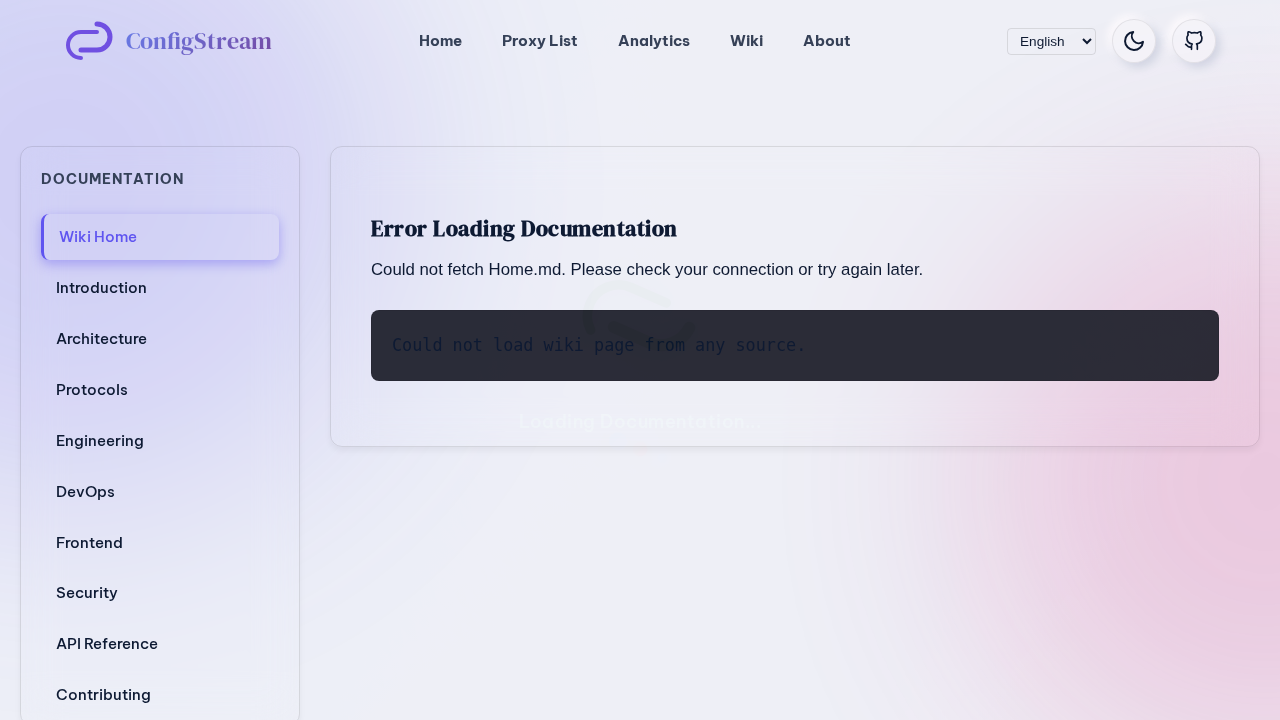
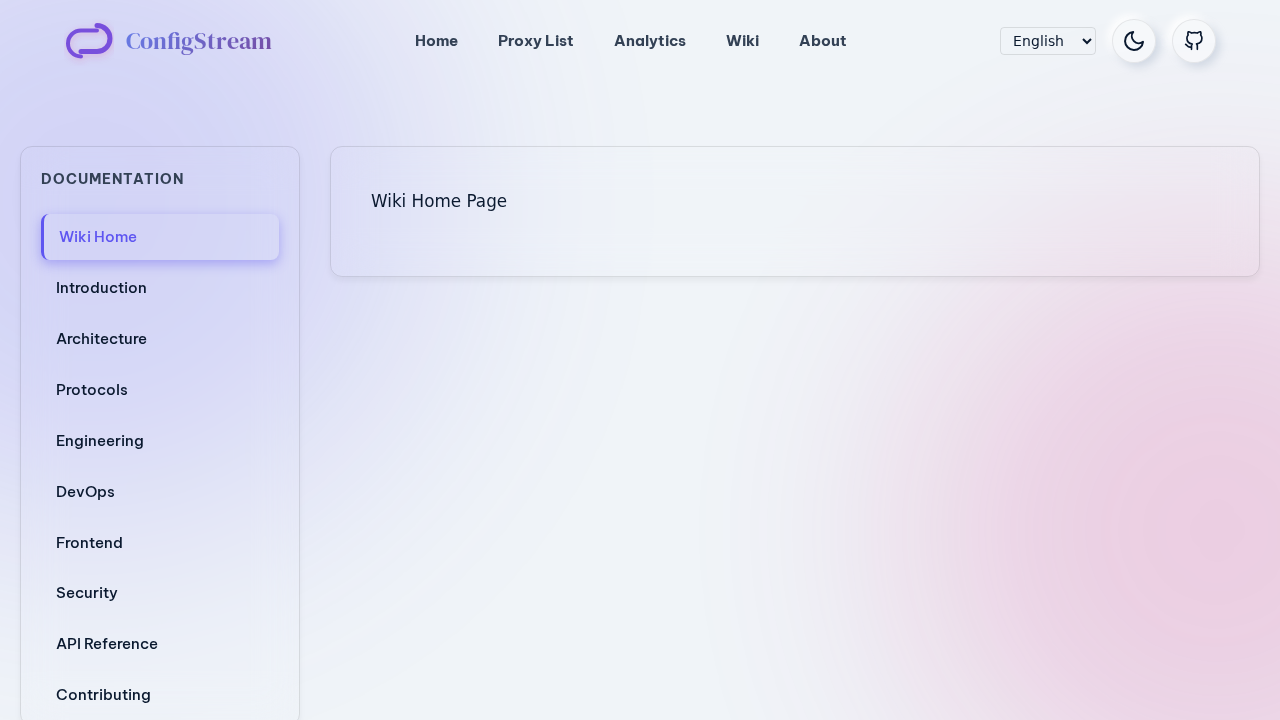
fix(frontend): repair broken wiki/about pages and improve typography/i18n
- Implemented robust multi-strategy fetching in `wiki.js` to handle relative paths and various deployment environments (local vs GitHub Pages).
- Added CDN fallback for `marked.js` and `DOMPurify` in `wiki.html`.
- Enhanced `style.css` with language-specific font families (Vazirmatn, Noto Sans) for better typography in Persian, Arabic, and Chinese.
- Updated `i18n.js` with missing Wiki navigation keys.
- Added comprehensive logging to `src/configstream/parsers/base.py` to trace dropped config lines and reasons.
- Added `tests/unit/test_parsers_logging.py` to verify logging improvements.

diff --git a/frontend/assets/js/wiki.js b/frontend/assets/js/wiki.js
@@ -5,21 +5,21 @@ const WIKI_BASE_URL = 'https://raw.githubusercontent.com/AmirrezaFarnamTaheri/Co
 const LOCAL_WIKI_BASE = '../docs/wiki/';
 
 const WIKI_PAGES = [
-    { id: 'Home', title: 'Wiki Home', file: 'Home.md' },
-    { id: 'intro', title: 'Introduction', file: '01-introduction.md' },
-    { id: 'arch', title: 'Architecture', file: '02-architecture.md' },
-    { id: 'proto', title: 'Protocols', file: '03-protocols.md' },
-    { id: 'eng', title: 'Engineering', file: '04-engineering.md' },
-    { id: 'devops', title: 'DevOps', file: '05-devops.md' },
-    { id: 'frontend', title: 'Frontend', file: '06-frontend.md' },
-    { id: 'security', title: 'Security', file: '07-security.md' },
-    { id: 'api', title: 'API Reference', file: '08-api-reference.md' },
-    { id: 'contributing', title: 'Contributing', file: '09-contributing.md' },
-    { id: 'troubleshooting', title: 'Troubleshooting', file: '10-troubleshooting.md' },
-    { id: 'home_page', title: 'Page: Home', file: 'Home_Page.md' },
-    { id: 'analytics_page', title: 'Page: Analytics', file: 'Analytics_Page.md' },
-    { id: 'proxies_page', title: 'Page: Proxies', file: 'Proxies_Page.md' },
-    { id: 'about_page', title: 'Page: About', file: 'About_Page.md' }
+    { id: 'Home', title: 'wiki.nav.home', defaultTitle: 'Wiki Home', file: 'Home.md' },
+    { id: 'intro', title: 'wiki.nav.intro', defaultTitle: 'Introduction', file: '01-introduction.md' },
+    { id: 'arch', title: 'wiki.nav.arch', defaultTitle: 'Architecture', file: '02-architecture.md' },
+    { id: 'proto', title: 'wiki.nav.proto', defaultTitle: 'Protocols', file: '03-protocols.md' },
+    { id: 'eng', title: 'wiki.nav.eng', defaultTitle: 'Engineering', file: '04-engineering.md' },
+    { id: 'devops', title: 'wiki.nav.devops', defaultTitle: 'DevOps', file: '05-devops.md' },
+    { id: 'frontend', title: 'wiki.nav.frontend', defaultTitle: 'Frontend', file: '06-frontend.md' },
+    { id: 'security', title: 'wiki.nav.security', defaultTitle: 'Security', file: '07-security.md' },
+    { id: 'api', title: 'wiki.nav.api', defaultTitle: 'API Reference', file: '08-api-reference.md' },
+    { id: 'contributing', title: 'wiki.nav.contributing', defaultTitle: 'Contributing', file: '09-contributing.md' },
+    { id: 'troubleshooting', title: 'wiki.nav.troubleshooting', defaultTitle: 'Troubleshooting', file: '10-troubleshooting.md' },
+    { id: 'home_page', title: 'wiki.nav.page_home', defaultTitle: 'Page: Home', file: 'Home_Page.md' },
+    { id: 'analytics_page', title: 'wiki.nav.page_analytics', defaultTitle: 'Page: Analytics', file: 'Analytics_Page.md' },
+    { id: 'proxies_page', title: 'wiki.nav.page_proxies', defaultTitle: 'Page: Proxies', file: 'Proxies_Page.md' },
+    { id: 'about_page', title: 'wiki.nav.page_about', defaultTitle: 'Page: About', file: 'About_Page.md' }
 ];
 
 document.addEventListener('DOMContentLoaded', () => {
@@ -28,6 +28,16 @@ document.addEventListener('DOMContentLoaded', () => {
     // Handle hash changes to load pages
     window.addEventListener('hashchange', loadFromHash);
 
+    // Listen for language changes to update sidebar titles
+    window.addEventListener('languageChanged', () => {
+        initSidebar();
+        // Also re-highlight active
+        const hash = window.location.hash.substring(1) || 'Home';
+        const page = WIKI_PAGES.find(p => p.id === hash) || WIKI_PAGES[0];
+        const activeNav = document.getElementById(`nav-${page.id}`);
+        if (activeNav) activeNav.classList.add('active');
+    });
+
     // Initial load
     loadFromHash();
 });
@@ -35,14 +45,31 @@ document.addEventListener('DOMContentLoaded', () => {
 function initSidebar() {
     const sidebar = document.getElementById('wikiSidebar');
     if (!sidebar) return;
+
+    // Preserve active state if rebuilding
+    const currentHash = window.location.hash.substring(1) || 'Home';
+
     sidebar.innerHTML = '';
 
     WIKI_PAGES.forEach(page => {
         const link = document.createElement('a');
         link.className = 'wiki-nav-item';
-        link.innerText = page.title;
+
+        // Use i18n if available, otherwise default
+        let displayTitle = page.defaultTitle;
+        if (window.i18n && window.i18n.t) {
+            const translated = window.i18n.t(page.title);
+            if (translated !== page.title) {
+                displayTitle = translated;
+            }
+        }
+
+        link.innerText = displayTitle;
         link.href = `#${page.id}`;
         link.id = `nav-${page.id}`;
+        if (page.id === currentHash) {
+            link.classList.add('active');
+        }
         sidebar.appendChild(link);
     });
 }
@@ -56,6 +83,11 @@ async function loadFromHash() {
     const activeNav = document.getElementById(`nav-${page.id}`);
     if (activeNav) activeNav.classList.add('active');
 
+    // Scroll sidebar to active item on mobile/small screens
+    if (activeNav && window.innerWidth < 900) {
+        activeNav.scrollIntoView({ behavior: 'smooth', block: 'center', inline: 'center' });
+    }
+
     await renderPage(page.file);
 }
 
@@ -63,52 +95,100 @@ async function renderPage(filename) {
     const container = document.getElementById('wikiRenderer');
     if (!container) return;
 
-    container.innerHTML = '<div class="loading-spinner">Loading...</div>';
+    container.innerHTML = `
+        <div class="loading-spinner">
+            <div class="spinner"></div>
+            <p style="margin-left: 10px;">Loading content...</p>
+        </div>`;
 
     try {
         // Strategy:
-        // 1. Try fetching from 'wiki/' relative path (Production, served from output/wiki)
-        // 2. Try fetching from './' relative path (If served from output/wiki/index.html)
-        // 3. Try fetching from raw GitHub (Fallback)
-        // 4. Try fetching from local docs folder (Local Dev)
-
-        // Note: fetch will succeed even on 404, so we must check response.ok
+        // 1. Try 'wiki/' relative path (For sub-path deployment e.g., /wiki/)
+        // 2. Try './' relative path (For flat deployment)
+        // 3. Try Raw GitHub (Fallback for missing files or local dev)
+        // 4. Try '../docs/wiki/' (Local dev fallback)
 
         let content = '';
         let success = false;
+        let lastError = null;
 
         const strategies = [
             `wiki/${filename}`,
-            `${filename}`, // For /wiki/ context
+            `${filename}`,
             WIKI_BASE_URL + filename,
             `../docs/wiki/${filename}`
         ];
 
         for (const url of strategies) {
             try {
-                const response = await fetch(url);
+                console.debug(`[Wiki] Trying to fetch: ${url}`);
+                const response = await fetch(url, { cache: 'no-cache' }); // Avoid stale content
                 if (response.ok) {
                     content = await response.text();
+
+                    // Basic validation: ensure it looks like markdown or text, not HTML 404 page
+                    if (content.trim().toLowerCase().startsWith('<!doctype html')) {
+                         console.warn(`[Wiki] Fetched HTML instead of Markdown from ${url} (Soft 404)`);
+                         continue;
+                    }
+
                     success = true;
+                    console.debug(`[Wiki] Successfully loaded from ${url}`);
                     break;
                 }
             } catch (e) {
-                // Continue to next strategy
+                console.warn(`[Wiki] Failed to fetch from ${url}: ${e.message}`);
+                lastError = e;
             }
         }
 
         if (!success) {
-            throw new Error('Could not load wiki page from any source.');
+            throw new Error('Could not load wiki page from any source. Please check your network connection.');
         }
 
         // Parse Markdown
-        // Check for marked library
         if (typeof marked !== 'undefined') {
+            // Configure marked for security
+            // marked.use({ ... }) if needed
+
             const html = marked.parse(content);
-            const sanitized = window.DOMPurify ? window.DOMPurify.sanitize(html) : html;
+
+            // Sanitize
+            let sanitized;
+            if (window.DOMPurify) {
+                sanitized = window.DOMPurify.sanitize(html, {
+                     ADD_TAGS: ['iframe'], // Allow iframes for youtube? maybe dangerous. keeping safe for now.
+                     ADD_ATTR: ['target']
+                });
+            } else {
+                console.warn("[Wiki] DOMPurify not loaded, using basic sanitization");
+                // Basic fallback sanitization
+                const tmp = document.createElement('div');
+                tmp.textContent = html; // THIS ESCAPES EVERYTHING, disabling markdown rendering effectively
+                // So we trust marked output if DOMPurify missing? No, that's dangerous.
+                // We'll use the i18n sanitizer or similar if available, or just render as text.
+                sanitized = html.replace(/<script\b[^>]*>([\s\S]*?)<\/script>/gm, "")
+                                .replace(/on\w+="[^"]*"/g, "");
+            }
+
             container.innerHTML = sanitized;
+
+            // Post-processing: Make links open in new tab if external
+            container.querySelectorAll('a').forEach(link => {
+                if (link.hostname !== window.location.hostname) {
+                    link.setAttribute('target', '_blank');
+                    link.setAttribute('rel', 'noopener noreferrer');
+                }
+            });
+
         } else {
-            container.innerText = content; // Fallback text only
+            // Fallback if marked is missing (e.g., CDN blocked)
+            container.innerHTML = `
+                <div class="warning-state" style="padding: 20px; background: #fff3cd; color: #856404; border-radius: 8px;">
+                    <strong>Markdown Parser Missing:</strong> The content below is raw Markdown.
+                </div>
+                <pre style="white-space: pre-wrap;">${content}</pre>
+            `;
             console.warn("marked library not loaded");
         }
 
@@ -123,9 +203,11 @@ async function renderPage(filename) {
         container.innerHTML = `
             <div class="error-state">
                 <h3>Error Loading Documentation</h3>
-                <p>Could not fetch ${filename}. Please check your connection or try again later.</p>
-                <pre>${error.message}</pre>
+                <p>Could not fetch ${filename}.</p>
+                <p class="error-detail">${error.message}</p>
+                <button onclick="location.reload()" class="btn btn-secondary" style="margin-top: 10px;">Retry</button>
             </div>
         `;
+        console.error("Wiki load error:", error);
     }
 }

diff --git a/frontend/assets/js/i18n.js b/frontend/assets/js/i18n.js
@@ -6,6 +6,22 @@ const translations = {
         "nav.wiki": "Wiki",
         "nav.about": "About",
 
+        "wiki.nav.home": "Wiki Home",
+        "wiki.nav.intro": "Introduction",
+        "wiki.nav.arch": "Architecture",
+        "wiki.nav.proto": "Protocols",
+        "wiki.nav.eng": "Engineering",
+        "wiki.nav.devops": "DevOps",
+        "wiki.nav.frontend": "Frontend",
+        "wiki.nav.security": "Security",
+        "wiki.nav.api": "API Reference",
+        "wiki.nav.contributing": "Contributing",
+        "wiki.nav.troubleshooting": "Troubleshooting",
+        "wiki.nav.page_home": "Page: Home",
+        "wiki.nav.page_analytics": "Page: Analytics",
+        "wiki.nav.page_proxies": "Page: Proxies",
+        "wiki.nav.page_about": "Page: About",
+
         "hero.title": "Unlock the Internet",
         "hero.subtitle": "Access the open web with our free, auto-updating VPN configurations. We aggregate fresh proxies from over 668 sources every 6 hours, ensuring you always have a reliable connection.",
         "hero.browse": "Browse Proxies",
@@ -117,6 +133,21 @@ const translations = {
         "nav.analytics": "数据分析",
         "nav.wiki": "百科",
         "nav.about": "关于我们",
+        "wiki.nav.home": "百科首页",
+        "wiki.nav.intro": "简介",
+        "wiki.nav.arch": "架构设计",
+        "wiki.nav.proto": "支持协议",
+        "wiki.nav.eng": "工程细节",
+        "wiki.nav.devops": "运维部署",
+        "wiki.nav.frontend": "前端开发",
+        "wiki.nav.security": "安全机制",
+        "wiki.nav.api": "API 参考",
+        "wiki.nav.contributing": "贡献指南",
+        "wiki.nav.troubleshooting": "故障排除",
+        "wiki.nav.page_home": "页面：首页",
+        "wiki.nav.page_analytics": "页面：分析",
+        "wiki.nav.page_proxies": "页面：节点",
+        "wiki.nav.page_about": "页面：关于",
         "hero.title": "畅游无界网络",
         "hero.subtitle": "使用我们免费、自动更新的 VPN 配置访问全球网络。系统每 6 小时从 668+ 个精选源获取新鲜代理，确保您时刻拥有稳定可靠的连接。",
         "hero.browse": "浏览节点",

diff --git a/frontend/assets/css/style.css b/frontend/assets/css/style.css
@@ -1,4 +1,4 @@
-@import url('https://fonts.googleapis.com/css2?family=Be+Vietnam+Pro:wght@400;500;700;800&family=DM+Serif+Display&display=swap');
+@import url('https://fonts.googleapis.com/css2?family=Be+Vietnam+Pro:wght@400;500;700;800&family=DM+Serif+Display&family=Vazirmatn:wght@400;500;700;800&family=Noto+Sans+Arabic:wght@400;500;700;800&family=Noto+Sans+SC:wght@400;500;700;800&display=swap');
 
 /*
     ConfigStream - The "Perfect" UI/UX Redesign v4.0
@@ -73,6 +73,31 @@ body.dark {
     --success-color: #64ffda;
     --danger-color: #ff5277;
     --border-color: rgba(255,255,255,0.1);
+}
+
+/* Language Specific Typography */
+html[lang="fa"] body, html[lang="fa"] .btn, html[lang="fa"] input, html[lang="fa"] select, html[lang="fa"] textarea {
+    font-family: 'Vazirmatn', var(--font-sans);
+}
+html[lang="fa"] h1, html[lang="fa"] h2, html[lang="fa"] h3, html[lang="fa"] h4 {
+    font-family: 'Vazirmatn', var(--font-display);
+    font-weight: 700;
+}
+
+html[lang="ar"] body, html[lang="ar"] .btn, html[lang="ar"] input, html[lang="ar"] select, html[lang="ar"] textarea {
+    font-family: 'Noto Sans Arabic', var(--font-sans);
+}
+html[lang="ar"] h1, html[lang="ar"] h2, html[lang="ar"] h3, html[lang="ar"] h4 {
+    font-family: 'Noto Sans Arabic', var(--font-display);
+    font-weight: 700;
+}
+
+html[lang="zh"] body, html[lang="zh"] .btn, html[lang="zh"] input, html[lang="zh"] select, html[lang="zh"] textarea {
+    font-family: 'Noto Sans SC', var(--font-sans);
+}
+html[lang="zh"] h1, html[lang="zh"] h2, html[lang="zh"] h3, html[lang="zh"] h4 {
+    font-family: 'Noto Sans SC', var(--font-display);
+    font-weight: 700;
 }
 
 /* Cyberpunk Theme */

diff --git a/frontend/wiki.html b/frontend/wiki.html
@@ -20,8 +20,12 @@
 
     <!-- Marked.js for Markdown parsing -->
     <script src="https://cdn.jsdelivr.net/npm/marked/marked.min.js"></script>
+    <script>if(typeof marked === 'undefined') { document.write('<script src="https://unpkg.com/marked/marked.min.js"><\/script>'); }</script>
+
     <!-- DOMPurify for sanitization -->
     <script src="https://cdn.jsdelivr.net/npm/dompurify@3.0.6/dist/purify.min.js"></script>
+    <script>if(typeof DOMPurify === 'undefined') { document.write('<script src="https://unpkg.com/dompurify@3.0.6/dist/purify.min.js"><\/script>'); }</script>
+
     <!-- Highlight.js for syntax highlighting -->
     <link rel="stylesheet" href="https://cdnjs.cloudflare.com/ajax/libs/highlight.js/11.9.0/styles/atom-one-dark.min.css">
     <script src="https://cdnjs.cloudflare.com/ajax/libs/highlight.js/11.9.0/highlight.min.js"></script>

diff --git a/src/configstream/parsers/base.py b/src/configstream/parsers/base.py
@@ -253,6 +253,8 @@ def extract_config_lines(
             )
 
     lines = payload.splitlines()
+    logger.debug(f"Extracting configs from payload of {len(payload)} bytes ({len(lines)} lines)")
+
     if len(lines) > max_lines:
         logger.warning(
             f"Payload has {len(lines)} lines, truncating to {max_lines}. "
@@ -279,17 +281,23 @@ def extract_config_lines(
         parts = candidate.split("://", 1)
         if len(parts) == 2:
             protocol = parts[0]
-            if protocol in valid_prefixes and is_plausible_proxy_config(candidate):
+            reason = ""
+            if protocol not in valid_prefixes:
+                reason = f"Invalid protocol '{protocol}'"
+            elif not is_plausible_proxy_config(candidate):
+                reason = "Implausible format or blocked domain"
+
+            if not reason:
                 configs.append(candidate)
             else:
                 dropped_count += 1
                 if logger.isEnabledFor(logging.DEBUG):
                     logger.debug(
-                        "Dropping invalid config line: %s... (Reason: Invalid protocol or implausible format)",
-                        candidate[:100],
+                        "Dropping invalid config line: %s... (Reason: %s)",
+                        candidate[:100], reason
                     )
                 if len(dropped_samples) < 5:
-                    dropped_samples.append(candidate[:100])  # Truncate for log safety
+                    dropped_samples.append(f"{candidate[:100]} [{reason}]")  # Truncate for log safety
 
     if dropped_count > 0:
         if len(configs) > 0:

diff --git a/tests/unit/test_parsers_logging.py b/tests/unit/test_parsers_logging.py
@@ -1,0 +1,29 @@
+import logging
+import pytest
+from configstream.parsers.base import extract_config_lines, is_plausible_proxy_config
+
+def test_extract_config_lines_logging(caplog):
+    caplog.set_level(logging.DEBUG)
+
+    payload = """
+    vmess://valid_config
+    invalid_protocol://something
+    http://github.com/sub
+    """
+
+    configs = extract_config_lines(payload)
+
+    assert len(configs) == 1
+    assert "vmess://valid_config" in configs
+
+    # Check logs for drop reasons
+    # Note: exact log message depends on implementation details, checking substrings
+    assert "Dropping invalid config line" in caplog.text
+    assert "Invalid protocol 'invalid_protocol'" in caplog.text
+    # http://github.com is blocked
+    assert "Implausible format or blocked domain" in caplog.text or "Reason: Implausible" in caplog.text
+
+def test_blocked_domains():
+    assert is_plausible_proxy_config("http://github.com/user/repo") is False
+    assert is_plausible_proxy_config("https://raw.githubusercontent.com/config") is False
+    assert is_plausible_proxy_config("vmess://valid") is True
